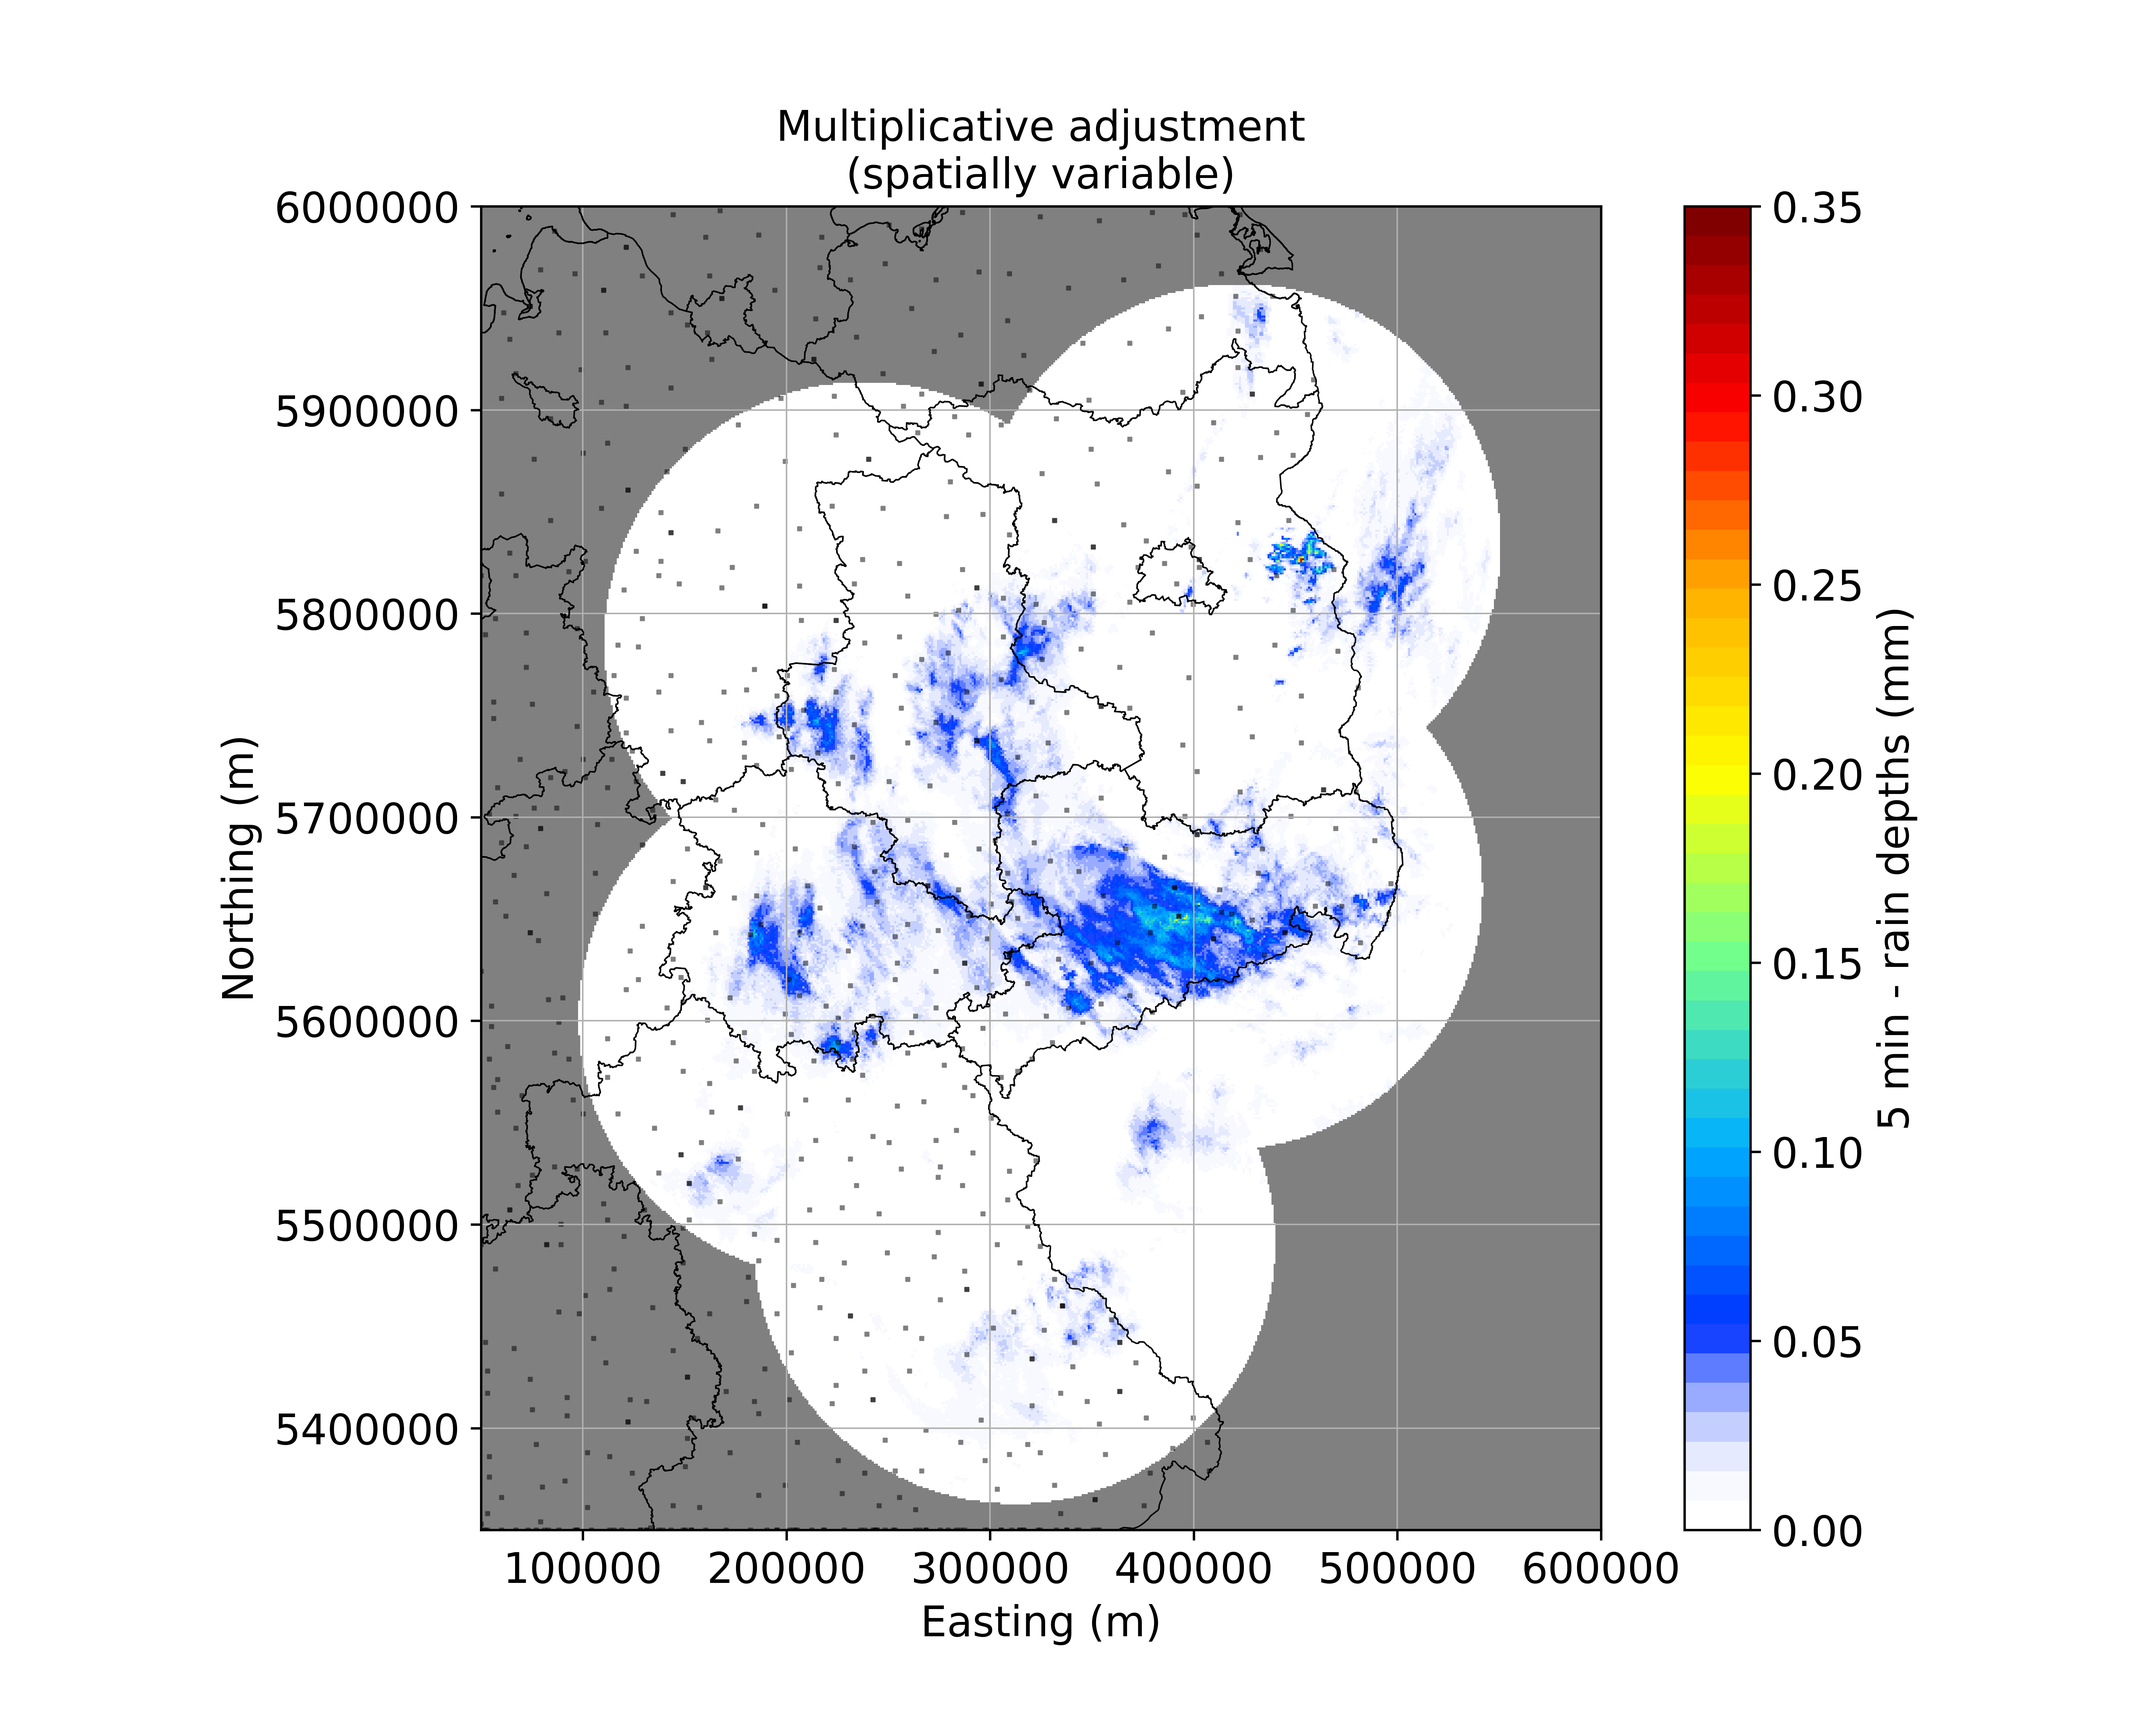
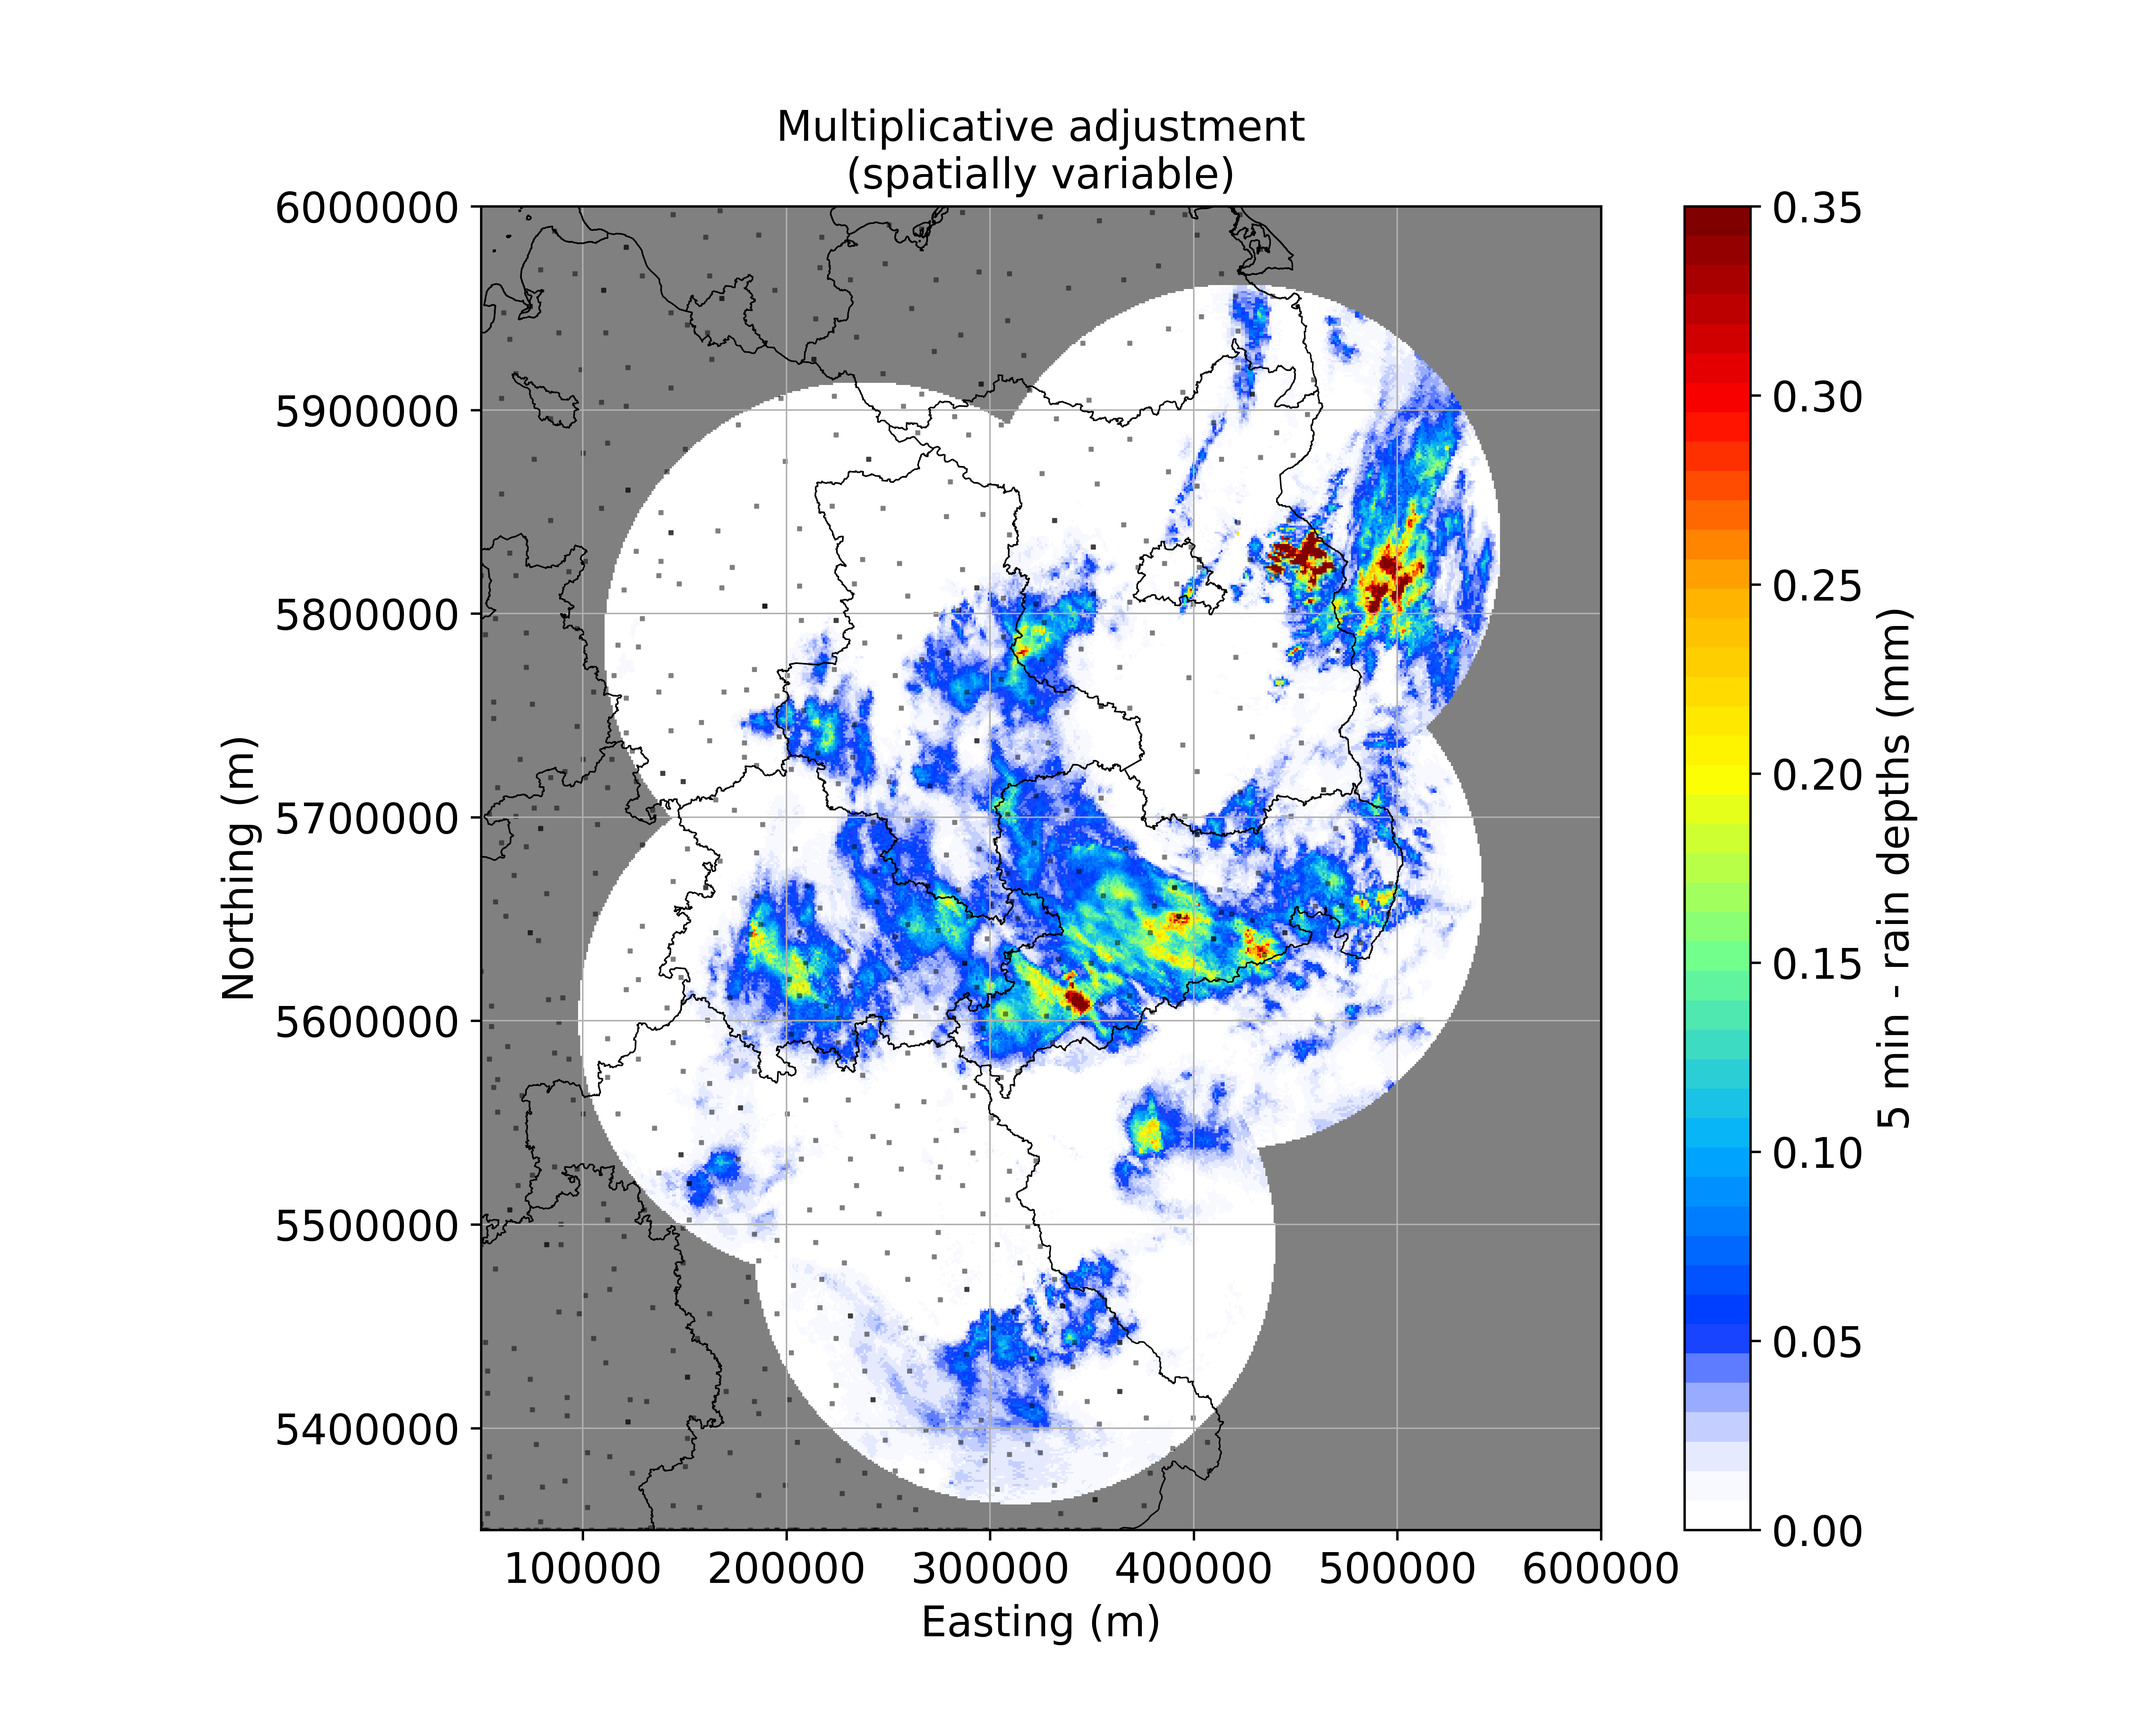
Plot QQ for evaluation.

Changed region(s): [[0.3117, 0.1562, 0.7168, 0.875]]

diff --git a/code/PlotComposite.py b/code/PlotComposite.py
@@ -6,10 +6,9 @@ import matplotlib.pyplot as plt
 from pyproj import Proj
 import shapefile as shp
 
-from func import max_from_arrays, plot_grid, rmse, clutter_gabella, attcorr, rain_depths
+from func import max_from_arrays, plot_grid, clutter_gabella, attcorr, rain_depths, quantiles_100
 from colorbars import cm
 from ReadGaugeData import read_gauges_60min, read_gauges_1min, gaugearray
-from PlotAdjustment import plot_adjusted_data, plot_adjust_errors
 
 myProj = Proj("+proj=utm +zone=33 +north +ellps=WGS84 +datum=WGS84 +units=m +no_defs")
 
@@ -110,13 +109,21 @@ obs_coords = zip(gaugedata["easting"], gaugedata["northing"]) # 2D-array
 obs_coords = np.array([list(elem) for elem in obs_coords])
 
 # Apply adjustment methods.
-adjuster = wrl.adjust.AdjustAdd(obs_coords, radar_coords, nnear_raws=9, minval=0)
+adjuster = wrl.adjust.AdjustAdd(obs_coords, radar_coords, 
+                                nnear_raws=1, stat="best", mingages=5, minval=0)
 adjusted_add = adjuster(obs_1d, radar_1d)
-adjuster = wrl.adjust.AdjustMultiply(obs_coords, radar_coords, nnear_raws=9, minval=0.01)
+if minutes == 60:
+    minval = 0.1
+if minutes == 5:
+    minval = 0.01
+adjuster = wrl.adjust.AdjustMultiply(obs_coords, radar_coords, 
+                                     nnear_raws=1, stat="best", mingages=5, minval=minval)
 adjusted_mul = adjuster(obs_1d, radar_1d) 
-adjuster = wrl.adjust.AdjustMFB(obs_coords, radar_coords)
+adjuster = wrl.adjust.AdjustMFB(obs_coords, radar_coords, 
+                                nnear_raws=1, stat="best", mingages=5)
 adjusted_mulcon = adjuster(obs_1d, radar_1d)
-adjuster = wrl.adjust.AdjustMixed(obs_coords, radar_coords, nnear_raws=9, minval=0)
+adjuster = wrl.adjust.AdjustMixed(obs_coords, radar_coords, 
+                                  nnear_raws=1, stat="best", mingages=5)
 adjusted_mix = adjuster(obs_1d, radar_1d)
 
 # Reproject 1D-array (490000 elements) to 2D-array (700,700).
@@ -146,8 +153,16 @@ mulcon_de = np.add(adjusted_mulcon_arr, boundary_mask).reshape([700*700])
 mix_de = np.add(adjusted_mix_arr, boundary_mask).reshape([700*700])
 
 # Plot adjusted radar data.
-plot_adjusted_data(xgrid, ygrid, gaugedata, adjusted_add_arr, adjusted_mul_arr, adjusted_mulcon_arr, adjusted_mix_arr, minutes)
-plot_adjust_errors(xgrid, ygrid, gaugedata, radar, adjusted_add_arr, adjusted_mul_arr, adjusted_mulcon_arr, adjusted_mix_arr, minutes)
+plot_grid(adjusted_add_arr, gaugedata, xgrid, ygrid, "Additive adjustment\n(spatially variable)", f"adjustment_add", minutes, plotgauges=True)
+plot_grid(adjusted_mul_arr, gaugedata, xgrid, ygrid,"Multiplicative adjustment\n(spatially variable)", f"adjustment_mul", minutes, plotgauges=True)
+plot_grid(adjusted_mulcon_arr, gaugedata, xgrid, ygrid,"Multiplicative adjustment\n(spatially uniform)", f"adjustment_mfb", minutes, plotgauges=True)
+plot_grid(adjusted_mix_arr, gaugedata, xgrid, ygrid,"Additive-multiplicative-mixed adjustment\n(spatially variable)", f"adjustment_mixed", minutes, plotgauges=True)
+
+# Plot errors.    
+plot_grid(adjusted_add_arr - radar, gaugedata, xgrid, ygrid,"Additive error\n(spatially variable)", "adjustment_add_diff", minutes, plotgauges=True)
+plot_grid(adjusted_mul_arr - radar, gaugedata, xgrid, ygrid,"Multiplicative error\n(spatially variable)", "adjustment_mul_diff", minutes, plotgauges=True)
+plot_grid(adjusted_mulcon_arr - radar, gaugedata, xgrid, ygrid,"Multiplicative error\n(spatially uniform)", "adjustment_mfb_diff", minutes, plotgauges=True)
+plot_grid(adjusted_mix_arr - radar, gaugedata, xgrid, ygrid,"Additive-multiplicative-mixed error\n(spatially variable)", "adjustment_mixed_diff", minutes, plotgauges=True)    
 
 # Plot CDF.
 fig = pl.figure(figsize=(10, 6))
@@ -159,43 +174,61 @@ plt.hist(mulcon_de, 100, density=True, histtype="step", cumulative=True, label="
 plt.hist(mix_de, 100, density=True, histtype="step", cumulative=True, label="Add.-Mul. (var)", linewidth=1.5)
 plt.legend(loc="lower right")
 plt.grid()
-plt.xlim([0, 4.25])
-plt.xlabel("60 min - precipitation [mm]", fontsize=12)
-# plt.xlabel("60 min - Niederschlagssumme [mm]", fontsize=12)
+if minutes == 5:
+    plt.xlim([0, 0.5])
+else:
+    plt.xlim([0, 4.25])
+plt.xlabel(f"{minutes} min - precipitation [mm]", fontsize=12)
 plt.ylabel("CDF", fontsize=12)
-# plt.ylabel("kumulierte, empirische Wahrscheinlichkeit", fontsize=12)
-plt.savefig("images/adjustment_eval", dpi=600)
+plt.savefig(f"images/adjustment_eval_{minutes}min", dpi=600)
 
-# Calculate RMSE and bias indices.
-
-def rmse(gauge_indices, predict_array, actual_array):
-    l = []
+# Calculate bias indices.
+def err_metrics(gauge_indices, predict_array, actual_array):
+    gauge_list, rad_list = [], []
     for i in range(len(gauge_indices)):
         x,y = gauge_indices[i]
-        rad_val = predict_array[y][x]
-        gau_val = actual_array[x][y]
-        if not np.isnan(rad_val): # ignore gauge stations outside of radar domain
-            l.append(np.square(np.subtract(rad_val, gau_val)))
-    return np.sqrt(np.mean(l))
+        rad_list.append(predict_array[y][x])
+        gauge_list.append(actual_array[x][y])
+    metrics = wrl.verify.ErrorMetrics(np.array(gauge_list), np.array(rad_list))
+    return metrics.pprint()
 
-def pbias(gauge_indices, predict_array, actual_array):
-    l = []
-    for i in range(len(gauge_indices)):
-        x,y = gauge_indices[i]
-        rad_val = predict_array[y][x]
-        gau_val = actual_array[x][y]
-        if not np.isnan(rad_val): # ignore gauge stations outside of radar domain
-            if gau_val != 0:
-                diff = np.subtract(rad_val, gau_val)
-                l.append(diff/gau_val)
-    return np.mean(l)
+print("metrics Add. adjustment", err_metrics(gauge_indices, adjusted_add_arr, gauge_array))
+print("metrics Mul. adjustment", err_metrics(gauge_indices, adjusted_mul_arr, gauge_array))
+print("metrics Mul. (spatially uniform) adjustment", err_metrics(gauge_indices, adjusted_mulcon_arr, gauge_array))
+print("metrics Mixed adjustment", err_metrics(gauge_indices, adjusted_mix_arr, gauge_array))
 
-print("RMSE Add. adjustment", rmse(gauge_indices, adjusted_add_arr, gauge_array))
-print("RMSE Mul. adjustment", rmse(gauge_indices, adjusted_mul_arr, gauge_array))
-print("RMSE Mul. (spatially uniform) adjustment", rmse(gauge_indices, adjusted_mulcon_arr, gauge_array))
-print("RMSE Mixed adjustment", rmse(gauge_indices, adjusted_mix_arr, gauge_array))
+# Access gauge data within Germany.
+rad = np.add(adjusted_add_arr,boundary_mask)
+gauge_list = []
+for i in range(len(gauge_indices)):
+    x,y = gauge_indices[i]
+    rad_val = rad[y][x]
+    if not np.isnan(rad_val):
+        gauge_list.append(gauge_array[x][y])
 
-print("pbias Add. adjustment", pbias(gauge_indices, adjusted_add_arr, gauge_array))
-print("pbias Mul. adjustment", pbias(gauge_indices, adjusted_mul_arr, gauge_array))
-print("pbias Mul. (spatially uniform) adjustment", pbias(gauge_indices, adjusted_mulcon_arr, gauge_array))
-print("pbias Mixed adjustment", pbias(gauge_indices, adjusted_mix_arr, gauge_array))
+# Calculate quaniltes.
+q_add = quantiles_100(add_de)
+q_mul = quantiles_100(mul_de)
+q_mulcon = quantiles_100(mulcon_de)
+q_mix = quantiles_100(mix_de)
+q_gau = quantiles_100(gauge_list)
+q_rad = quantiles_100(radar_de)
+
+# Plot QQ.
+fig, ax = plt.subplots()    
+plt.plot([0,1.5], [0,1.5], linewidth=0.5, color="grey", ls="-", alpha=0.8)
+plt.scatter(q_gau, q_rad, label="Radar (unadjusted)", s=7, marker='o', alpha=0.8)
+plt.scatter(q_gau, q_add, label="Add. adjustment", s=7, marker='o', alpha=0.8, color="k")
+plt.scatter(q_gau, q_mul, label="Mul. adjustment", s=7, marker='o', alpha=0.8)
+plt.scatter(q_gau, q_mulcon, label="MFB adjustment", s=7, marker='o', alpha=0.8)
+plt.scatter(q_gau, q_mix, label="Add.-Mul. adjustment", s=7, marker='o', alpha=0.8)
+if minutes == 5:
+    plt.xlim([0,0.4])
+    plt.ylim([0,0.4])
+if minutes == 60:    
+    plt.xlim([0,1.5])
+    plt.ylim([0,1.5])
+plt.xlabel("gauge quantiles")
+plt.ylabel("radar quantiles")
+plt.legend()
+plt.savefig(f"images/qq_{minutes}min", dpi=600, bbox_inches='tight')

diff --git a/code/func.py b/code/func.py
@@ -3,6 +3,7 @@ import matplotlib.pylab as pl
 import wradlib as wrl
 import numpy as np
 import math
+from scipy import stats
 import shapefile as shp  # Requires the pyshp package
 import matplotlib.pyplot as plt
 from pyproj import Proj
@@ -140,7 +141,7 @@ def max_from_arrays(array1, array2):
 def plot_grid(data, gaugedict, xgrid, ygrid, plottitle, filename, minutes, cmap=cm, plotgauges=False):
     """ Plot gridded data."""
     # replace negative numbers with zero.
-    data[data<0] = 0
+    # data[data<0] = 0
     pl.figure(figsize=(10, 8))
     ax = pl.subplot(111, aspect="equal")
     # add radar data
@@ -184,6 +185,9 @@ def plot_grid(data, gaugedict, xgrid, ygrid, plottitle, filename, minutes, cmap=
     pl.title(plottitle, fontsize=14)
     pl.savefig(f"images/{filename}{minutes}min", dpi=600)
     
-def rmse(actual, pred):     
-    """Calculate root mean squared error from two lists."""
-    return np.sqrt(np.square(np.subtract(actual, pred)).mean())
+def quantiles_100(liste):
+    score_list = []
+    liste = [x for x in liste if not np.isnan(x) ==True] # remove NaN's
+    for x in np.arange(1,101,1):
+        score_list.append(stats.scoreatpercentile(liste, x))
+    return score_list

diff --git a/README.md b/README.md
@@ -119,4 +119,4 @@ Data source:
 Notice: The gray dots in the maps represent gauge stations. Due to the lack of gauge station data outside of Germany the interpolation there produces artifacts and don't allow a proper interpretation of the rain field there is tricky.
 
 #### 8. Evaluate adjustment methods
-<img src="images/adjustment_eval_5min.png" alt="adjustment_eval_5min" width="400"/><img src="images/adjustment_eval_60min.png" alt="adjustment_eval_60min" width="400"/>
+<img src="images/qq_5min.png" alt="qq_5min" width="400"/><img src="images/qq_60min.png" alt="qq_60min" width="400"/>
